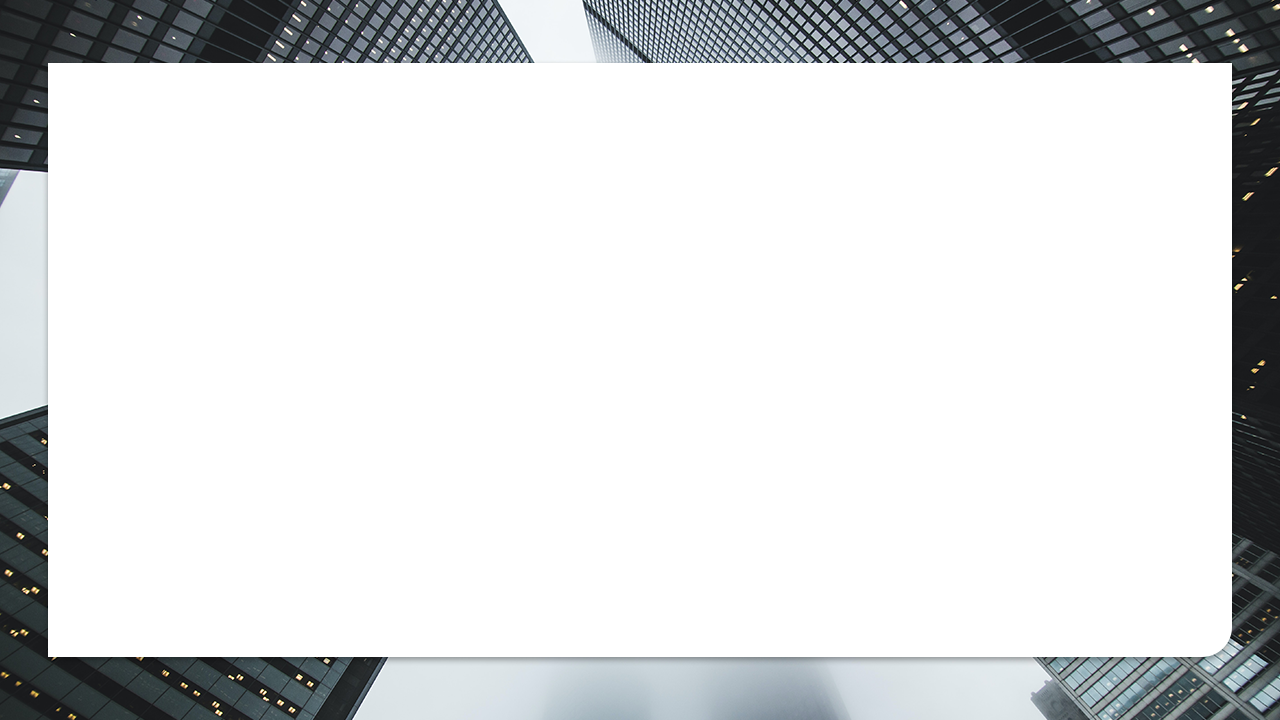
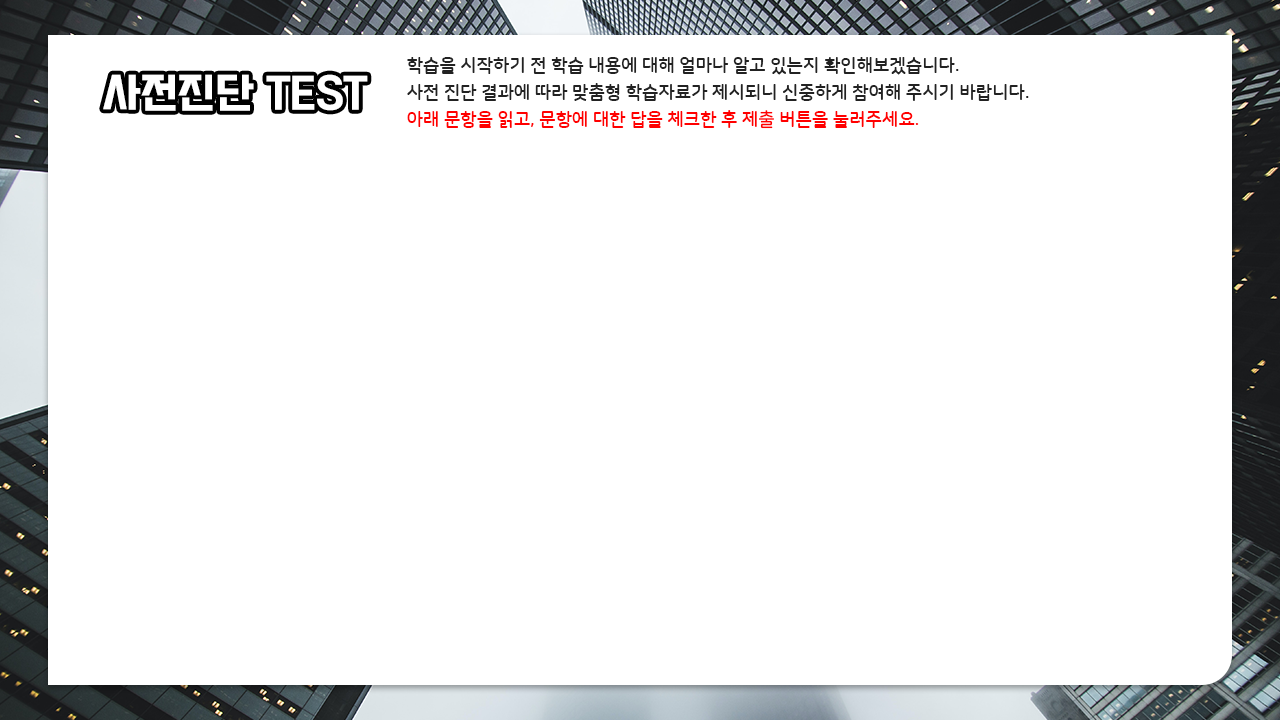
Style : pQuiz배경변경으로 퀴즈문항 재배치

Changed region(s): [[0.0312, 0.0306, 0.9688, 0.1833], [0.0312, 0.8861, 0.9688, 0.9778]]

diff --git a/css/basic.css b/css/basic.css
@@ -110,14 +110,14 @@ body {
   background-size: cover;
 }
 
-.pQuizTitleWrap {
+/* .pQuizTitleWrap {
   display: flex;
   flex-direction: row;
   margin-top: 5px;
   height: 120px;
-}
+} */
 
-.pQuizTitle {
+/* .pQuizTitle {
   display: flex;
   align-items: center;
   justify-content: center;
@@ -131,9 +131,9 @@ body {
   border-right: none;
   border-bottom: 3px solid #fff;
   border-left: none;
-}
+} */
 
-.pQuizGuide {
+/* .pQuizGuide {
   margin-top: 60px;
   padding-top: 10px;
   width: 580px;
@@ -141,7 +141,7 @@ body {
   margin-right: 300px;
   text-align: center;
   background-color: rgba(0, 0, 0, 0.1);
-}
+} */
 
 .pQuizContainer {
   position: relative;
@@ -149,7 +149,7 @@ body {
   justify-content: center;
   align-items: center;
   flex-direction: column;
-  margin-top: 0px;
+  margin-top: 160px;
   width: 1080px;
   height: 495px;
 }

diff --git a/js/buildPQuiz.js b/js/buildPQuiz.js
@@ -12,10 +12,6 @@ var pQuizRecord = Array.from({ length: pQuizSize }, () => ({
 function createPQuiz() {
   pQuizCorrect = 0;
   var pQuiz_txt = "";
-  pQuiz_txt += '<div class="pQuizTitleWrap">';
-  pQuiz_txt += '<div class="pQuizTitle">사전 진단 TEST</div>';
-  pQuiz_txt += '<div class="pQuizGuide">문항에 따라 맞으면 <span style="color:red; font-weight:bold">O</span>, 틀리면 <span style="color:red; font-weight:bold">X</span>를 선택하여 주세요.<br> 사전 지식 테스트 결과에 따라 학습 가이드가 제시되니 신중하게 참여해 주세요.</div>';
-  pQuiz_txt += '</div>';
   pQuiz_txt += '<div class="pQuizContainer">';
   pQuiz_txt += '<div class="pQuizSubHeading">';
   pQuiz_txt += '<div>차시</div>';
